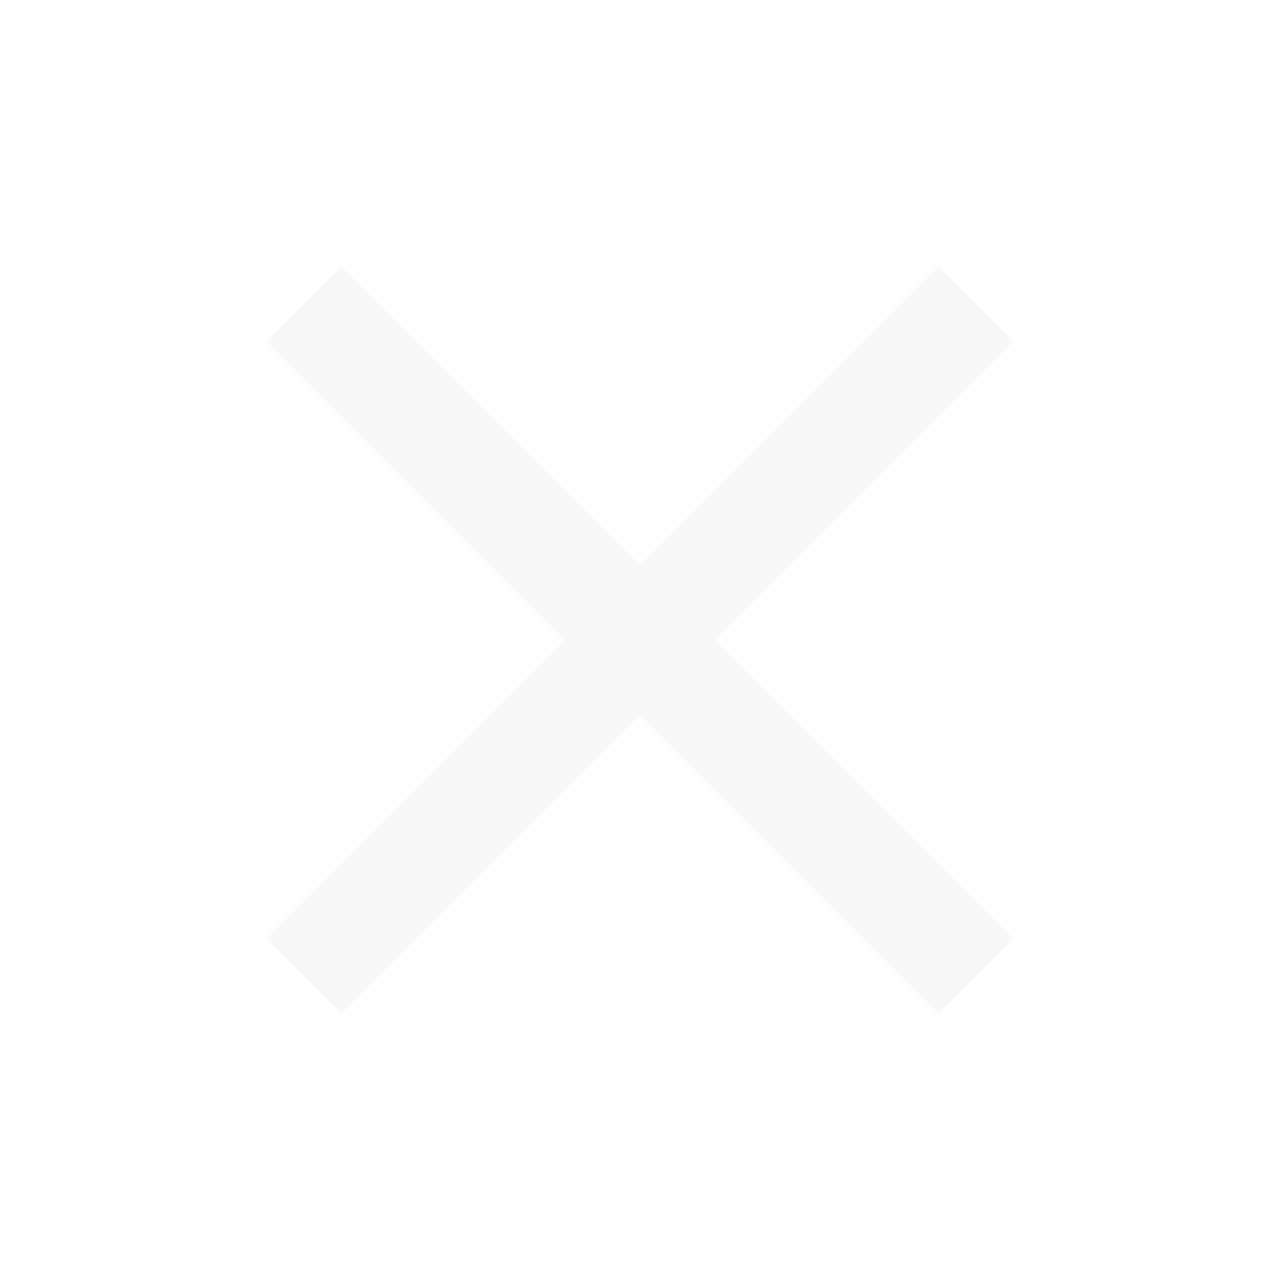
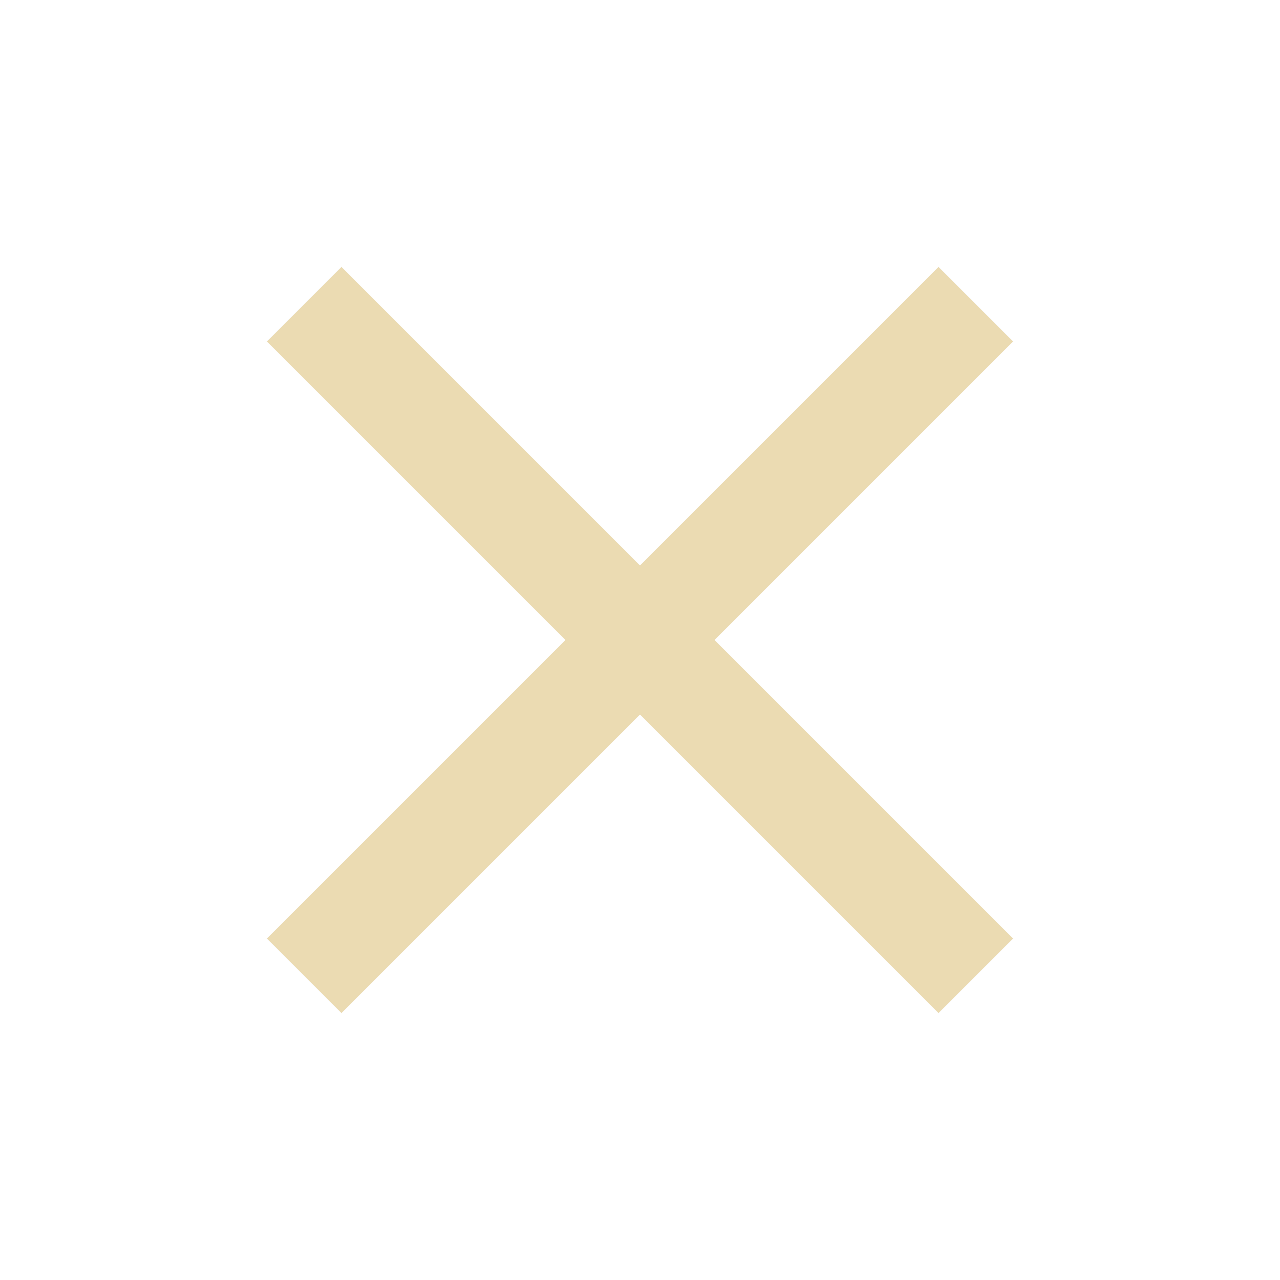
Refactor theme

Changed region(s): [[0.1875, 0.1875, 0.8125, 0.8125]]

diff --git a/src/components/Todo/components/ListView/ListView.tsx b/src/components/Todo/components/ListView/ListView.tsx
@@ -10,6 +10,8 @@ interface Props {
 
 function ListView({ tasks }: Props) {
   const [listView, setListView] = useState<'active' | 'journal'>('active');
+  const isJournal = listView === 'journal';
+  const isActive = listView === 'active';
 
   const onActiveListClick = () => {
     setListView('active');
@@ -24,16 +26,16 @@ function ListView({ tasks }: Props) {
       <View style={styles.header}>
         <Pressable
           onPress={onActiveListClick}
-          style={[listView === 'active' && styles.activeHeaderButton, styles.headerButton]}
+          style={[isActive && styles.activeHeaderButton, styles.headerButton]}
         >
-          <Text style={styles.buttonText}>Active</Text>
+          <Text style={[styles.buttonText, isActive && styles.activeHeaderButton]}>Active</Text>
         </Pressable>
 
         <Pressable
           onPress={onJournalListClick}
-          style={[listView === 'journal' && styles.activeHeaderButton, styles.headerButton]}
+          style={[isJournal && styles.activeHeaderButton, styles.headerButton]}
         >
-          <Text style={styles.buttonText}>Journal</Text>
+          <Text style={[styles.buttonText, isJournal && styles.activeHeaderButton]}>Journal</Text>
         </Pressable>
       </View>
 

diff --git a/src/components/ModalWindow/ModalWindowStyles.ts b/src/components/ModalWindow/ModalWindowStyles.ts
@@ -24,10 +24,10 @@ export const styles = StyleSheet.create({
   },
   container: {
     zIndex: 11,
-    backgroundColor: Colors.raisinBlack,
+    backgroundColor: Colors.bg,
     borderWidth: 2,
     borderRadius: 20,
-    borderColor: Colors.seaSalt,
+    borderColor: Colors.fg,
     borderStyle: 'solid',
     width: '85%',
     padding: 30,
@@ -37,7 +37,7 @@ export const styles = StyleSheet.create({
     alignItems: 'center',
   },
   headerText: {
-    color: Colors.seaSalt,
+    color: Colors.fg,
     fontFamily: 'bold',
     fontSize: 30,
     textAlign: 'center',
@@ -53,11 +53,17 @@ export const styles = StyleSheet.create({
     width: '100%',
     borderRadius: 5,
     paddingVertical: 5,
-    backgroundColor: Colors.electricIndigo,
   },
+  confirmButton: {
+backgroundColor: Colors.green,
+   },
+   exitButton: {
+    backgroundColor: Colors.red,
+   },
   buttonText: {
     fontSize: 20,
+    fontWeight: 'bold',
     textAlign: 'center',
-    color: Colors.seaSalt,
+    color: Colors.bg,
   },
 });

diff --git a/src/components/Header/HeaderStyles.ts b/src/components/Header/HeaderStyles.ts
@@ -8,13 +8,13 @@ export const styles = StyleSheet.create({
     justifyContent: 'space-around',
     alignItems: 'center',
     height: 80,
-    borderBottomColor: Colors.englishViolet,
+    borderBottomColor: Colors.orange,
     borderBottomWidth: 2,
     borderStyle: 'solid',
   },
   title: {
     fontFamily: 'bold',
-    color: Colors.seaSalt,
+    color: Colors.fg,
     textAlign: 'center',
     fontSize: 30,
   },
@@ -32,15 +32,15 @@ export const styles = StyleSheet.create({
     gap: 5,
   },
   inputLabel: {
-    color: Colors.seaSalt,
+    color: Colors.fg,
     fontSize: 20,
     textAlign: 'left',
   },
   input: {
-    borderColor: Colors.seaSalt,
+    borderColor: Colors.fg,
     borderWidth: 2,
     borderRadius: 5,
-    color: Colors.seaSalt,
+    color: Colors.fg,
     paddingHorizontal: 15,
     paddingVertical: 5,
     fontSize: 18,

diff --git a/src/components/ModalWindow/ModalWindow.tsx b/src/components/ModalWindow/ModalWindow.tsx
@@ -19,11 +19,11 @@ function ModalWindow({ title, isWindowActive, action, closeAction, children }: P
           {children}
           <View style={styles.buttonContainer}>
             {action && (
-              <Pressable onPress={action} style={styles.button}>
+              <Pressable onPress={action} style={[styles.button, styles.confirmButton]}>
                 <Text style={styles.buttonText}>Подтвердить</Text>
               </Pressable>
             )}
-            <Pressable onPress={closeAction} style={styles.button}>
+            <Pressable onPress={closeAction} style={[styles.button, styles.exitButton]}>
               <Text style={styles.buttonText}>Закрыть</Text>
             </Pressable>
           </View>

diff --git a/src/components/Todo/components/ListView/ListViewStyles.ts b/src/components/Todo/components/ListView/ListViewStyles.ts
@@ -6,15 +6,15 @@ export const styles = StyleSheet.create({
     width: '100%',
     flexDirection: 'row',
   },
-  activeHeaderButton: { backgroundColor: Colors.electricIndigo },
   headerButton: {
     width: '50%',
     height: 40,
     justifyContent: 'center',
     borderBottomWidth: 2,
-    borderColor: Colors.englishViolet,
+    borderColor: Colors.orange,
   },
-  buttonText: { textAlign: 'center', color: Colors.seaSalt, fontSize: 20 },
+  activeHeaderButton: { backgroundColor: Colors.orange, color: Colors.bg },
+  buttonText: { textAlign: 'center', color: Colors.fg, fontSize: 20, fontWeight: 'bold' },
   taskContainer: {
     width: '80%',
     flexDirection: 'column',

diff --git a/src/components/ErrorsContainer/ErrorMessage/ErrorMessageStyles.ts b/src/components/ErrorsContainer/ErrorMessage/ErrorMessageStyles.ts
@@ -4,7 +4,7 @@ import { Colors } from "@/constants/theme";
 export const styles = StyleSheet.create({
   errorContainer: {
     maxWidth: '85%',
-    borderColor: Colors.seaSalt,
+    borderColor: Colors.fg,
     borderWidth: 2,
     borderRadius: 10,
     paddingVertical: 10,
@@ -16,7 +16,7 @@ export const styles = StyleSheet.create({
   },
   text: {
     width: '90%',
-    color: Colors.seaSalt,
+    color: Colors.fg,
     fontSize: 25,
   },
   closeButton: {

diff --git a/src/components/Todo/TodoStyles.ts b/src/components/Todo/TodoStyles.ts
@@ -14,10 +14,10 @@ export const styles = StyleSheet.create({
     width: 100,
     height: 100,
     borderWidth: 5,
-    borderLeftColor: Colors.seaSalt,
-    borderRightColor: Colors.seaSalt,
-    borderBottomColor: Colors.seaSalt,
-    borderTopColor: Colors.raisinBlack,
+    borderLeftColor: Colors.fg,
+    borderRightColor: Colors.fg,
+    borderBottomColor: Colors.fg,
+    borderTopColor: Colors.bg,
     borderRadius: 50
   }
 });

diff --git a/src/constants/theme.ts b/src/constants/theme.ts
@@ -1,9 +1,14 @@
 const Colors = {
-  raisinBlack: '#1A1C22',
-  englishViolet: '#3D3A50',
-  electricIndigo: '#5E29D0',
-  seaSalt: '#F7F7F7',
-  cardinal: '#B6283B'
-};
+  green: "#a9b665",
+  red: "#ea6962",
+  yellow: "#fabd2f",
+  blue: "#83a598",
+  purple: "#83a598",
+  aqua: "#8ec07c",
+  orange: "#e27c38",
+  gray: "#928374",
+  fg: "#ebdbb2",
+  bg: "#282828",
+}
 
 export { Colors };

diff --git a/src/components/Todo/components/ListView/Task/Property/PropertyStyles.ts b/src/components/Todo/components/ListView/Task/Property/PropertyStyles.ts
@@ -3,12 +3,13 @@ import { Colors } from '@/constants/theme';
 
 export const styles = StyleSheet.create({
   priorityProperty: {
-    borderWidth: 2,
+    // borderWidth: 2,
     borderStyle: 'solid',
     borderRadius: 7,
     paddingHorizontal: 20,
     paddingVertical: 3,
     fontSize: 15,
-    color: Colors.seaSalt,
+    fontWeight: '500',
+    color: Colors.bg,
   },
 });

diff --git a/src/components/Todo/components/ListView/Task/Property/Property.tsx b/src/components/Todo/components/ListView/Task/Property/Property.tsx
@@ -14,7 +14,7 @@ const Property = ({ text, color }: Props): React.ReactNode => {
       <Text
         style={{
           ...styles.priorityProperty,
-          ...{ borderColor: color === 'red' ? Colors.electricIndigo : Colors.englishViolet },
+          ...{ backgroundColor: color === 'red' ? Colors.red : Colors.green },
         }}
       >
         {text}

diff --git a/App.tsx b/App.tsx
@@ -44,7 +44,7 @@ function App() {
 const styles = StyleSheet.create({
   container: {
     flex: 1,
-    backgroundColor: Colors.raisinBlack,
+    backgroundColor: Colors.bg,
     paddingTop: Platform.OS === 'android' ? StatusBar.currentHeight : 0,
   },
 });

diff --git a/src/components/Todo/components/ListView/Task/TaskStyles.ts b/src/components/Todo/components/ListView/Task/TaskStyles.ts
@@ -12,7 +12,7 @@ export const styles = StyleSheet.create({
   },
   title: {
     fontSize: 22,
-    color: Colors.seaSalt,
+    color: Colors.fg,
     margin: 0
   },
   priorityContainer: {
